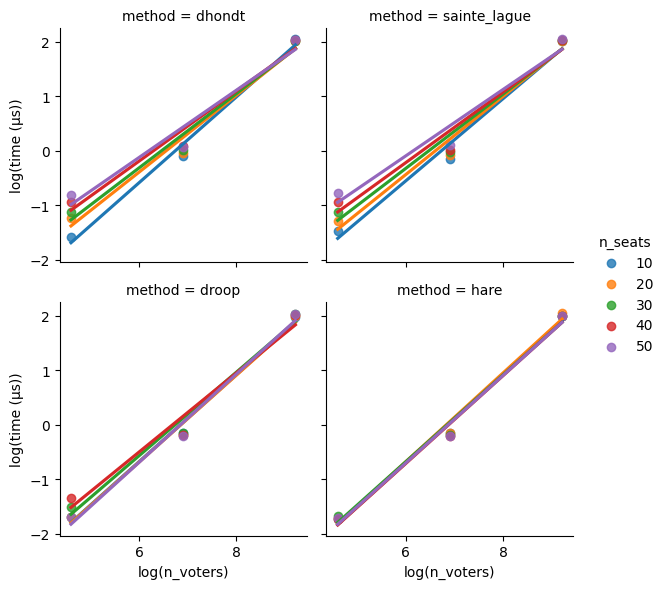
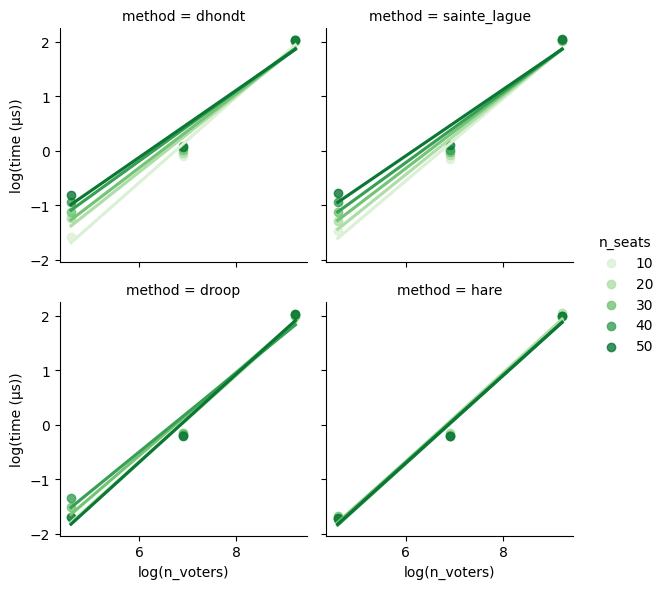
benches-analysis: use continuous color palette for continuous variable

diff --git a/benches/analysis.py b/benches/analysis.py
@@ -48,7 +48,8 @@ def non_stv_():
     df['log(n_voters)'] = np.log(df.n_voters)
     df['log(time (μs))'] = np.log(df['time (μs)'])
     g = sns.FacetGrid(
-        df, col='method', hue='n_seats', sharey=True, col_wrap=2
+        df, col='method', hue='n_seats', sharey=True, col_wrap=2,
+        palette='Greens'
     )
     g.map(sns.regplot, 'log(n_voters)', 'log(time (μs))', ci=None)
     g.add_legend()
